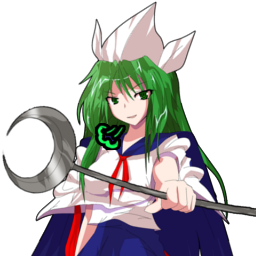
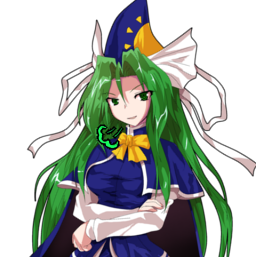
Portrait Update for SA

diff --git a/mima/files.js b/mima/files.js
@@ -208,7 +208,7 @@
 	"th11/bullet/etama2.png": 18050764,
 	"th11/bullet/etama6.png": 980115749,
 	"th11/face/pl01/face_pl01an.png": 2349478386,
-	"th11/face/pl01/face_pl01dp.png": 641502556,
+	"th11/face/pl01/face_pl01dp.png": 3707222234,
 	"th11/face/pl01/face_pl01hp.png": 1584272912,
 	"th11/face/pl01/face_pl01n2.png": 2882719354,
 	"th11/face/pl01/face_pl01no.png": 1593546430,
